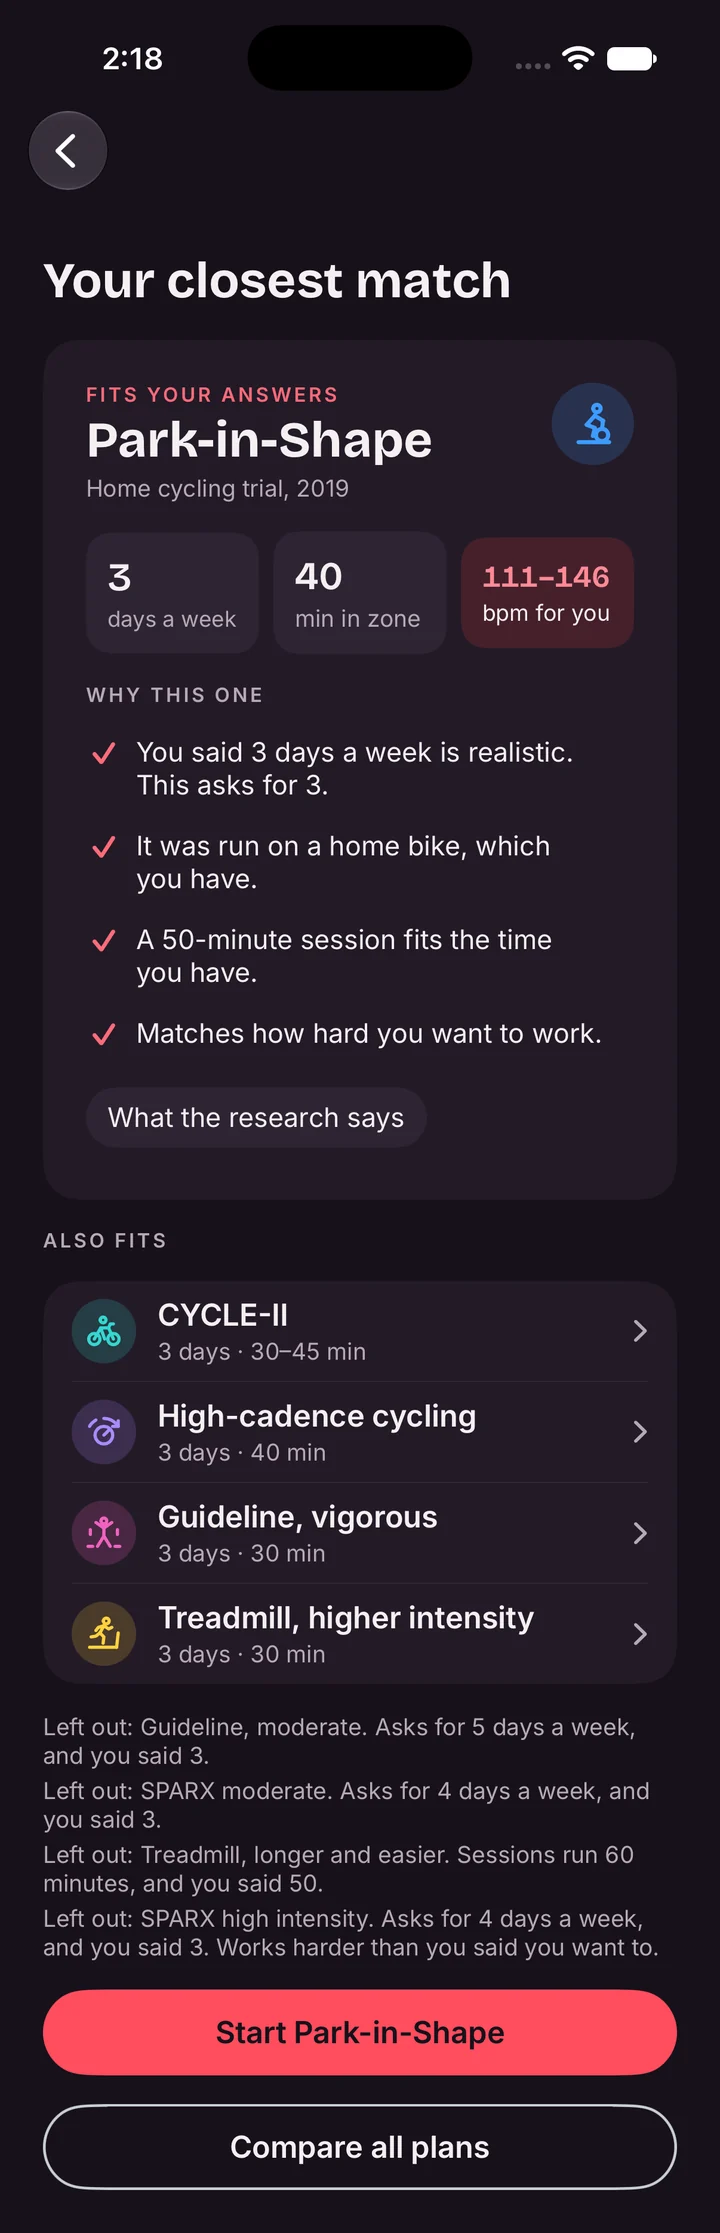
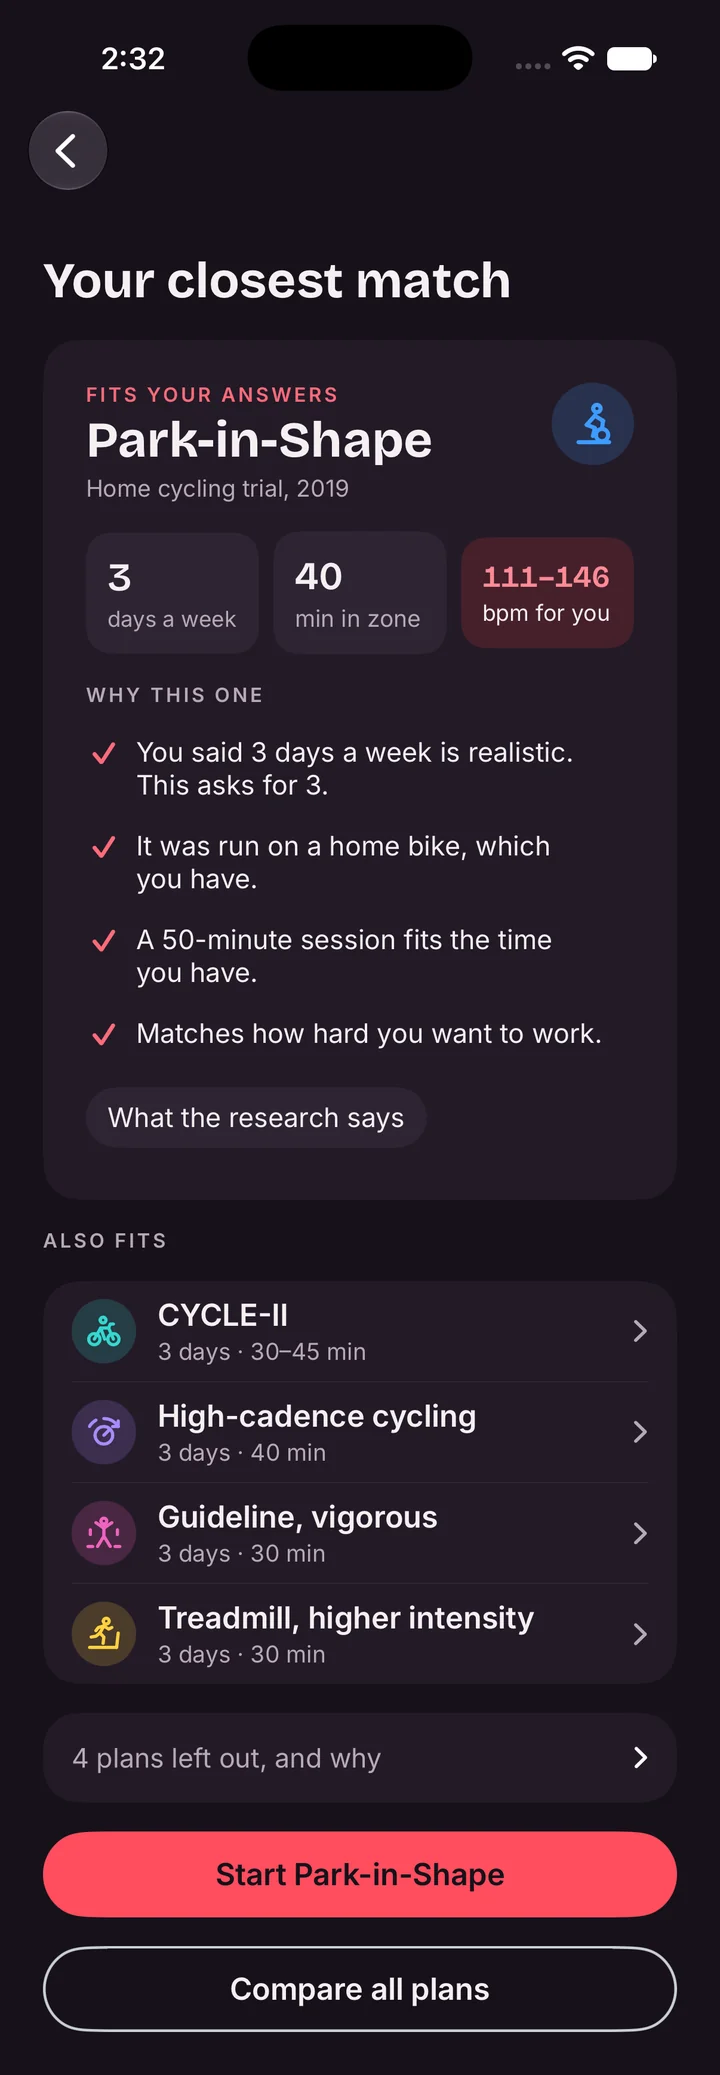
Redo the match screen and swipe the watch through its pages
The match screen no longer ends in a block of left-out plans, and the
watch shows its dial, zones and controls pages in turn, once.

diff --git a/index.html b/index.html
@@ -69,6 +69,13 @@ section { padding: 64px 0; border-top: 1px solid var(--line); }
 @media (prefers-reduced-motion: reduce) { .phone.long.play .page { animation: none; } }
 .watch { justify-self: center; width: min(250px, 62vw); border-radius: 58px; padding: 16px; background: #000; box-shadow: 0 0 0 2px var(--line); }
 .watch img { width: 100%; display: block; border-radius: 44px; }
+/* The watch's pages side by side; it swipes to each once when it comes into view, and rests on the dial. */
+.watch .face { overflow: hidden; border-radius: 44px; }
+.watch .strip { display: flex; transform: translateX(-100%); }
+.watch .strip img { flex: 0 0 100%; border-radius: 0; }
+.watch.pages.play .strip { animation: watch-swipe 9s ease-in-out 0.6s 1 both; }
+@keyframes watch-swipe { 0%, 8% { transform: translateX(-100%); } 18%, 42% { transform: translateX(-200%); } 52%, 58% { transform: translateX(-100%); } 68%, 88% { transform: translateX(0); } 100% { transform: translateX(-100%); } }
+@media (prefers-reduced-motion: reduce) { .watch.pages.play .strip { animation: none; } }
 .signup { background: var(--surface); border-radius: 28px; padding: 32px 24px; display: grid; gap: 22px; }
 form { display: grid; gap: 16px; max-width: 520px; }
 label { display: grid; gap: 6px; font-size: 15px; font-weight: 600; }
@@ -138,7 +145,7 @@ footer ol { margin: 0; padding-left: 20px; display: grid; gap: 6px; }
         <p>What you do now, the equipment you have, your days, your time, and how hard you want to work. PDZone shows the protocol that fits and says why, or lets you compare every plan with your own target on each.</p>
         <p>Each plan shows its study: who was in it, what it found, and what it didn't.</p>
       </div>
-      <div class="phone long" style="--travel:-39.05%;--dur:5.5s"><img class="page" src="img/p2-match-long.webp" alt="The match screen: Park-in-Shape, three days a week, 40 minutes in zone, 111 to 146 beats per minute, with the reasons it fits." loading="lazy"><img class="top" src="img/p2-match-top.webp" alt="" loading="lazy"><img class="bar" src="img/p2-match-bar.webp" alt="" loading="lazy"></div>
+      <div class="phone long" style="--travel:-34.41%;--dur:4.8s"><img class="page" src="img/p2-match-long.webp" alt="The match screen: Park-in-Shape, three days a week, 40 minutes in zone, 111 to 146 beats per minute, with the reasons it fits." loading="lazy"><img class="top" src="img/p2-match-top.webp" alt="" loading="lazy"><img class="bar" src="img/p2-match-bar.webp" alt="" loading="lazy"></div>
     </section>
 
     <section class="feature flip" aria-labelledby="f2">
@@ -163,9 +170,9 @@ footer ol { margin: 0; padding-left: 20px; display: grid; gap: 6px; }
       <div class="copy">
         <p class="label">On the watch</p>
         <h2 id="f4">The same dial on your wrist.</h2>
-        <p>The watch runs the session by itself, with the same dial and a page of minutes in each zone. It records the workout to Apple Health and sends the result back to the phone.</p>
+        <p>The watch runs the session by itself, with the same dial, a page of minutes in each zone, and a page of controls a swipe away. It records the workout to Apple Health and sends the result back to the phone.</p>
       </div>
-      <div class="watch"><img src="img/watch.png" alt="The Apple Watch screen: the same dial with 148 in the target, and the minutes at target below." loading="lazy"></div>
+      <div class="watch pages"><div class="face"><div class="strip"><img src="img/watch-controls.webp" alt="The watch's controls page: End, Pause, Mark and Lock." loading="lazy"><img src="img/watch-dial.webp" alt="The Apple Watch screen: the same dial with 148 in the target, and the minutes at target below." loading="lazy"><img src="img/watch-zones.webp" alt="The watch's zones page: minutes in each of five zones, with four minutes in zone 4." loading="lazy"></div></div></div>
     </section>
 
     <section class="feature" aria-labelledby="f5">
@@ -254,7 +261,7 @@ document.getElementById("form").addEventListener("submit", (event) => {
 <script>
 // Scroll each long screen once, the first time most of it is on screen.
 (function () {
-  var phones = document.querySelectorAll('.phone.long');
+  var phones = document.querySelectorAll('.phone.long, .watch.pages');
   if (!('IntersectionObserver' in window)) return;
   var seen = new IntersectionObserver(function (entries) {
     entries.forEach(function (entry) {
